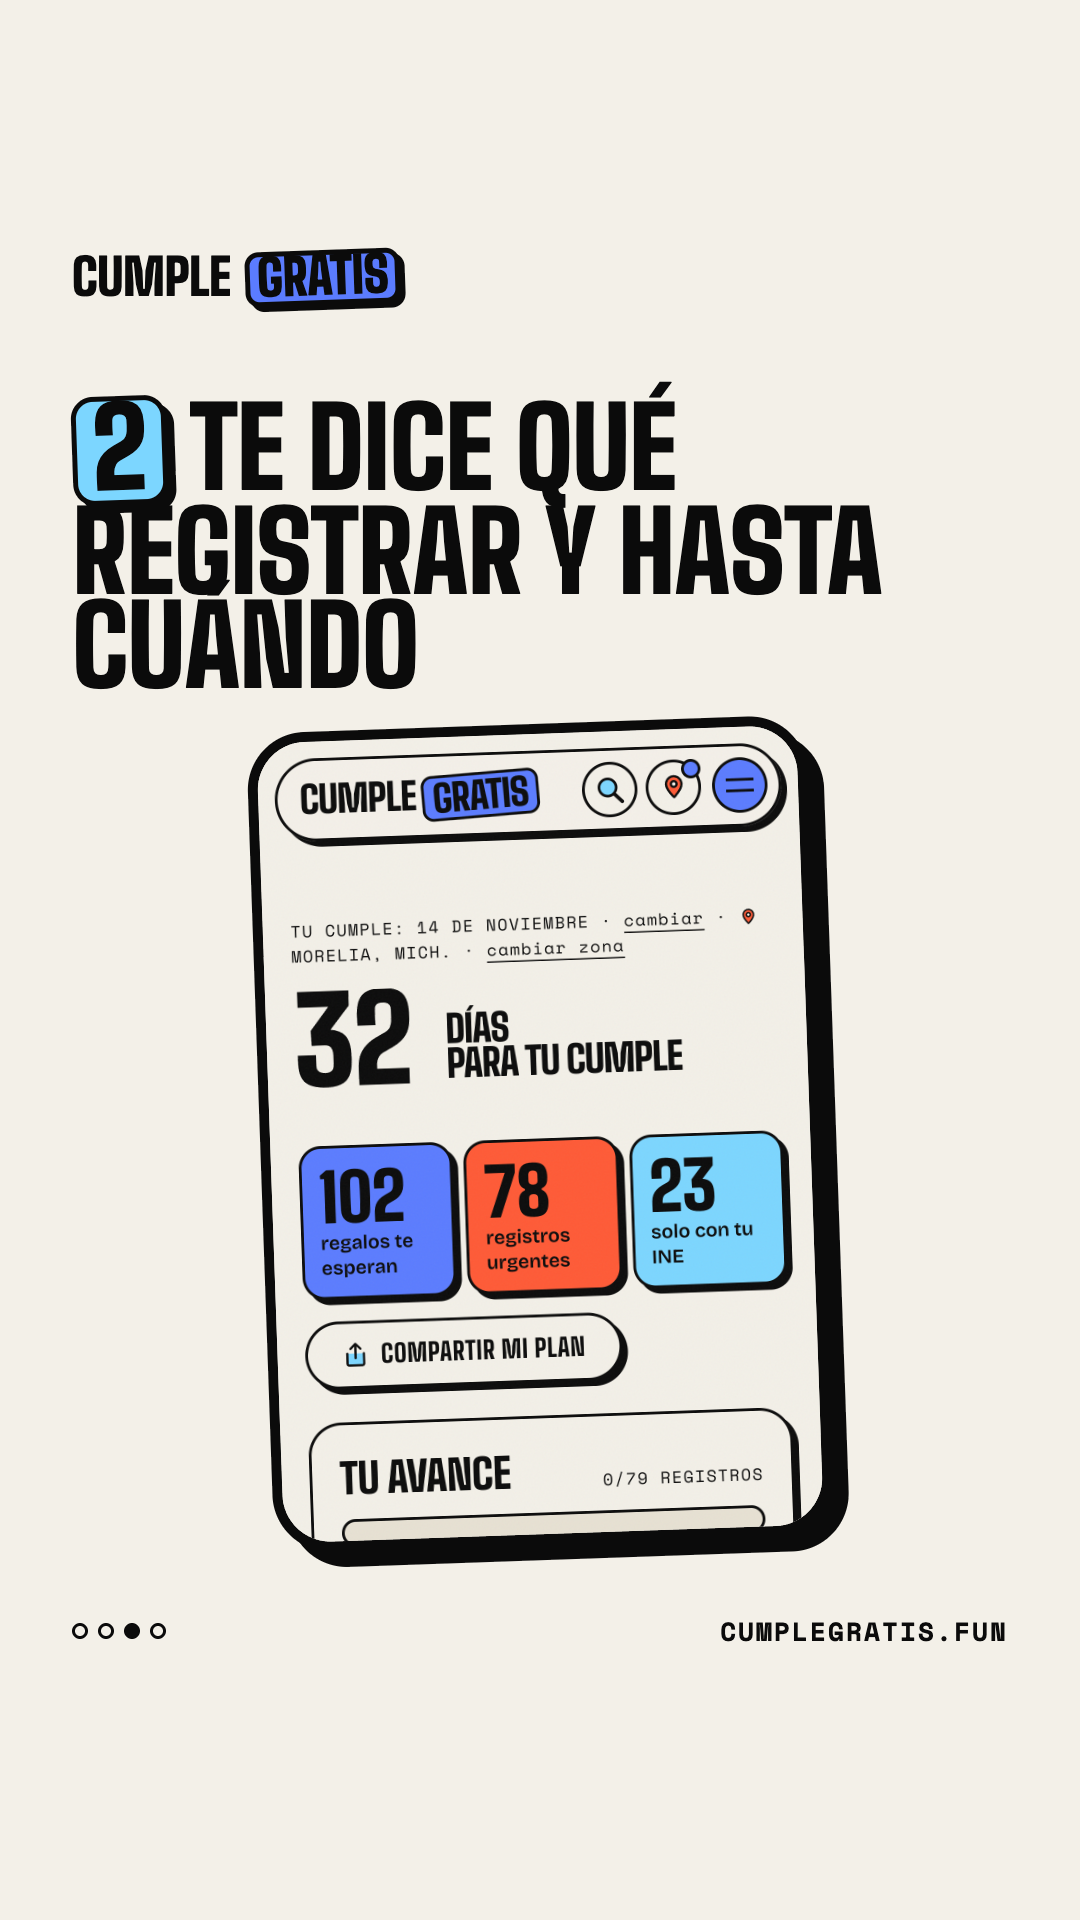
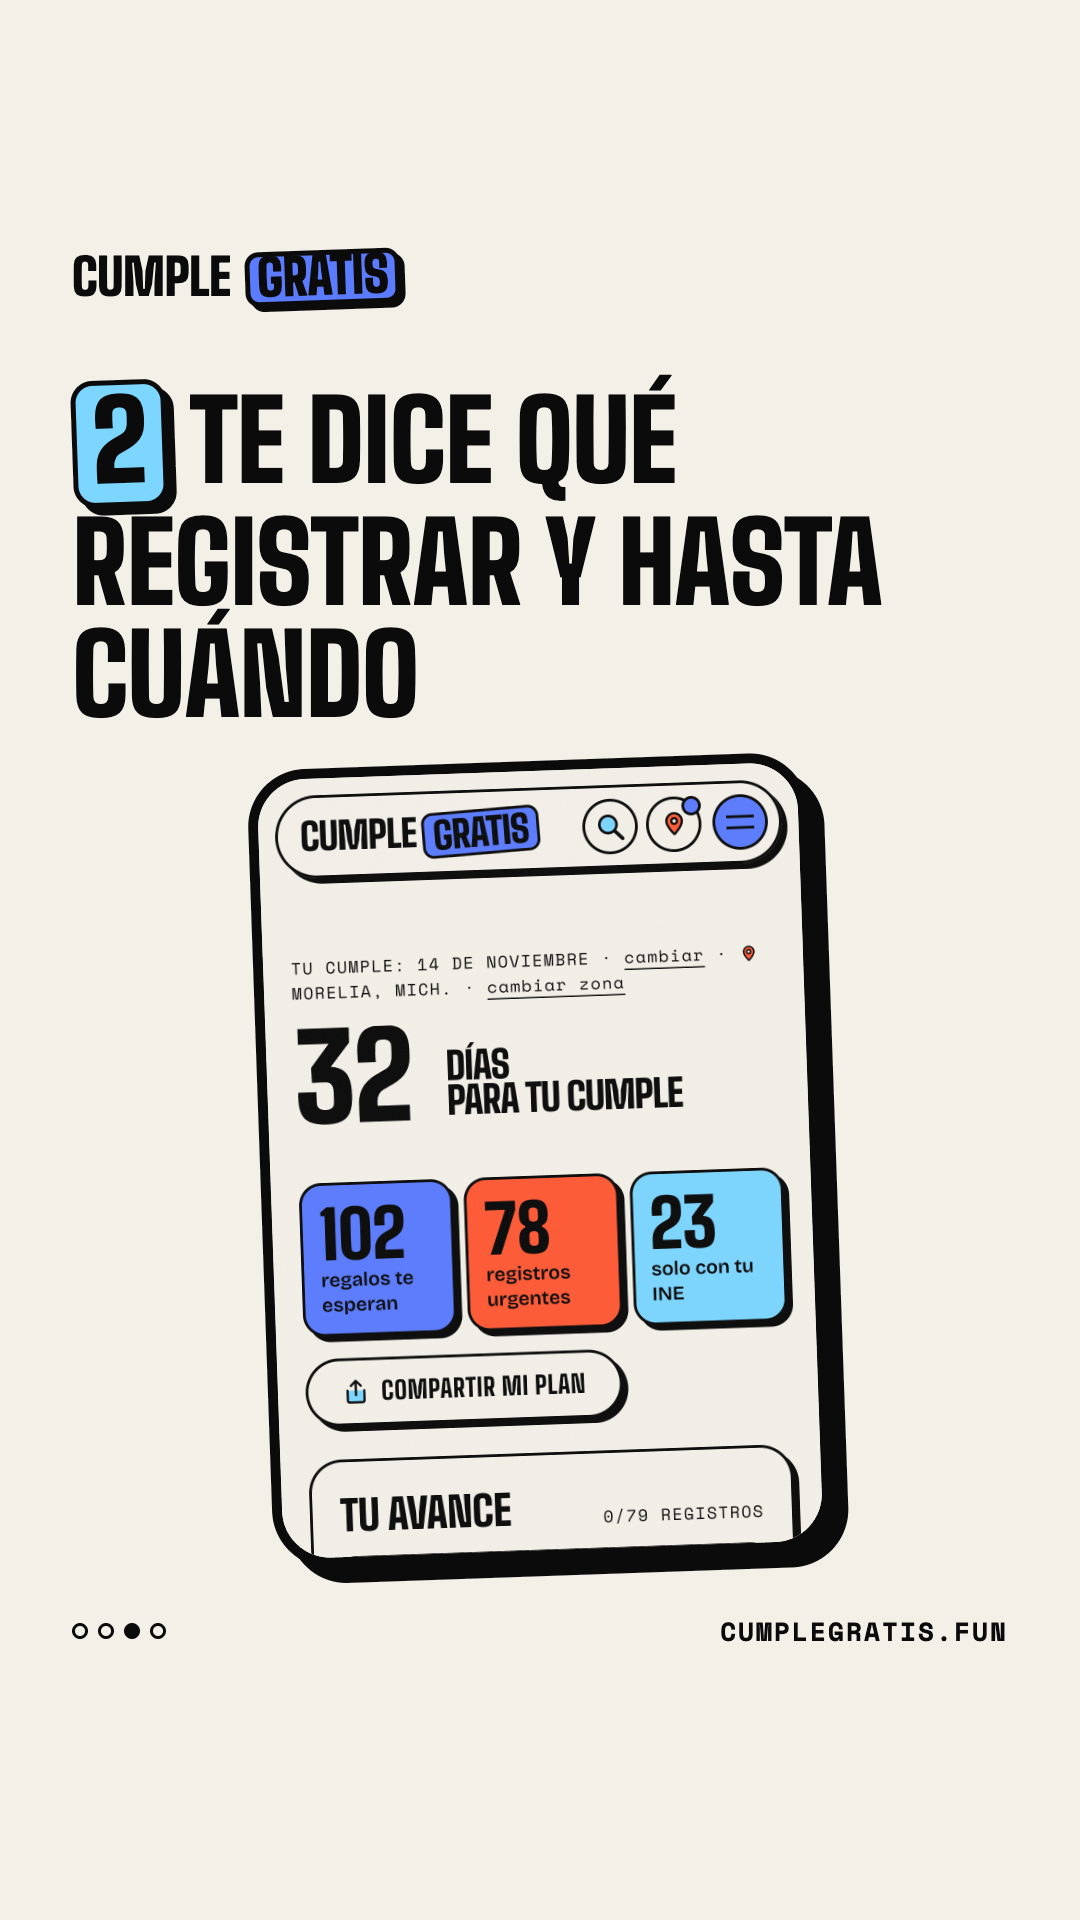
Cumplegratis: acentos visibles en «Cómo funciona»

Changed region(s): [[0.0611, 0.1875, 0.825, 0.8438], [0.4889, 0.1875, 0.55, 0.2188], [0.3056, 0.1875, 0.3361, 0.2188]]

diff --git a/index.html b/index.html
@@ -933,7 +933,7 @@ render();
 </section>
 
 <script>
-const CG = {"items": [{"id": "p01", "type": "post", "date": "2026-10-14", "title": "Tu cumple sale gratis (presentación)", "when": "", "note": "Día de apertura: primero foto de perfil y bio (Perfil, abajo). Luego este carrusel y fíjalo arriba del perfil.", "ig_text": "Tu cumple sale gratis.\n\nJuntamos todas las promos de cumpleaños de México: café, postre, comida, cine y regalos. Pones tu fecha y tu ciudad y te decimos qué registrar y hasta cuándo.\n\nGratis y sin cuenta: link en la bio.\n\n#cumpleaños #promociones #mexico #gratis #cumplegratis", "tt_text": "Todas las promos de cumpleaños de México en un solo lugar. Link en mi perfil #cumpleaños #promociones #mexico #gratis", "ig": [{"full": "cumplegratis/img/p01/ig/1.jpg?v=297d1154", "thumb": "cumplegratis/img/p01/ig/t1.jpg?v=d7e737ea"}, {"full": "cumplegratis/img/p01/ig/2.jpg?v=20e0c9f6", "thumb": "cumplegratis/img/p01/ig/t2.jpg?v=f92fd894"}, {"full": "cumplegratis/img/p01/ig/3.jpg?v=8c886379", "thumb": "cumplegratis/img/p01/ig/t3.jpg?v=6747280a"}, {"full": "cumplegratis/img/p01/ig/4.jpg?v=64f4d226", "thumb": "cumplegratis/img/p01/ig/t4.jpg?v=0f6d96af"}, {"full": "cumplegratis/img/p01/ig/5.jpg?v=eb682a5f", "thumb": "cumplegratis/img/p01/ig/t5.jpg?v=ff97c169"}], "tt": [{"full": "cumplegratis/img/p01/tt/1.jpg?v=297d1154", "thumb": "cumplegratis/img/p01/tt/t1.jpg?v=d7e737ea"}, {"full": "cumplegratis/img/p01/tt/2.jpg?v=20e0c9f6", "thumb": "cumplegratis/img/p01/tt/t2.jpg?v=f92fd894"}, {"full": "cumplegratis/img/p01/tt/3.jpg?v=8c886379", "thumb": "cumplegratis/img/p01/tt/t3.jpg?v=6747280a"}, {"full": "cumplegratis/img/p01/tt/4.jpg?v=64f4d226", "thumb": "cumplegratis/img/p01/tt/t4.jpg?v=0f6d96af"}, {"full": "cumplegratis/img/p01/tt/5.jpg?v=eb682a5f", "thumb": "cumplegratis/img/p01/tt/t5.jpg?v=ff97c169"}], "solo_ig": false}, {"id": "p02", "type": "post", "date": "2026-10-16", "title": "Regalos que puedes cobrar en tu cumpleaños", "when": "", "note": "", "ig_text": "Regalos que puedes cobrar en tu cumpleaños en cadenas de todo México. Cada una tiene sus requisitos: algunas piden app o registro antes, otras solo tu INE.\n\nTodas las condiciones y lo que aplica en tu ciudad: link en la bio.\n\n#cumpleaños #regalosdecumpleaños #promociones #mexico", "tt_text": "Regalos que puedes cobrar en tu cumple. Guárdalo #cumpleaños #promociones #mexico #gratis", "ig": [{"full": "cumplegratis/img/p02/ig/1.jpg?v=56a81232", "thumb": "cumplegratis/img/p02/ig/t1.jpg?v=b1052b84"}, {"full": "cumplegratis/img/p02/ig/2.jpg?v=8419044f", "thumb": "cumplegratis/img/p02/ig/t2.jpg?v=dd36af64"}, {"full": "cumplegratis/img/p02/ig/3.jpg?v=87d4e8fd", "thumb": "cumplegratis/img/p02/ig/t3.jpg?v=4f14f570"}, {"full": "cumplegratis/img/p02/ig/4.jpg?v=8b3bced3", "thumb": "cumplegratis/img/p02/ig/t4.jpg?v=307720d6"}, {"full": "cumplegratis/img/p02/ig/5.jpg?v=216b62d3", "thumb": "cumplegratis/img/p02/ig/t5.jpg?v=b2c5c739"}, {"full": "cumplegratis/img/p02/ig/6.jpg?v=56a5f168", "thumb": "cumplegratis/img/p02/ig/t6.jpg?v=eb18cb86"}], "tt": [{"full": "cumplegratis/img/p02/tt/1.jpg?v=56a81232", "thumb": "cumplegratis/img/p02/tt/t1.jpg?v=b1052b84"}, {"full": "cumplegratis/img/p02/tt/2.jpg?v=8419044f", "thumb": "cumplegratis/img/p02/tt/t2.jpg?v=dd36af64"}, {"full": "cumplegratis/img/p02/tt/3.jpg?v=87d4e8fd", "thumb": "cumplegratis/img/p02/tt/t3.jpg?v=4f14f570"}, {"full": "cumplegratis/img/p02/tt/4.jpg?v=8b3bced3", "thumb": "cumplegratis/img/p02/tt/t4.jpg?v=307720d6"}, {"full": "cumplegratis/img/p02/tt/5.jpg?v=216b62d3", "thumb": "cumplegratis/img/p02/tt/t5.jpg?v=b2c5c739"}, {"full": "cumplegratis/img/p02/tt/6.jpg?v=56a5f168", "thumb": "cumplegratis/img/p02/tt/t6.jpg?v=eb18cb86"}], "solo_ig": false}, {"id": "p03", "type": "post", "date": "2026-10-19", "title": "Cumples en noviembre: regístrate ya", "when": "", "note": "Va antes de que empiece noviembre para que alcancen a registrarse.", "ig_text": "¿Cumples en noviembre? Muchos regalos de cumpleaños solo llegan si ya estabas registrado en el programa de la marca.\n\nEn cumplegratis.fun pones tu fecha y te sale hasta qué día registrarte en cada uno. Link en la bio.\n\n#cumpleaños #noviembre #promociones #mexico", "tt_text": "Si cumples en noviembre, regístrate YA #cumpleaños #noviembre #promociones #mexico", "ig": [{"full": "cumplegratis/img/p03/ig/1.jpg?v=bb37e3fe", "thumb": "cumplegratis/img/p03/ig/t1.jpg?v=354d176e"}, {"full": "cumplegratis/img/p03/ig/2.jpg?v=865d282a", "thumb": "cumplegratis/img/p03/ig/t2.jpg?v=b7b1b67d"}, {"full": "cumplegratis/img/p03/ig/3.jpg?v=11c02ddb", "thumb": "cumplegratis/img/p03/ig/t3.jpg?v=c4e4cd49"}], "tt": [{"full": "cumplegratis/img/p03/tt/1.jpg?v=bb37e3fe", "thumb": "cumplegratis/img/p03/tt/t1.jpg?v=354d176e"}, {"full": "cumplegratis/img/p03/tt/2.jpg?v=865d282a", "thumb": "cumplegratis/img/p03/tt/t2.jpg?v=b7b1b67d"}, {"full": "cumplegratis/img/p03/tt/3.jpg?v=11c02ddb", "thumb": "cumplegratis/img/p03/tt/t3.jpg?v=c4e4cd49"}], "solo_ig": false}], "perfil": {"foto": {"file": "cumplegratis/img/perfil/perfil.png?v=eec987cf", "thumb": "cumplegratis/img/perfil/t-perfil.jpg?v=a9a232ec", "name": "cumplegratis-perfil.png", "label": ""}, "destacadas": [{"file": "cumplegratis/img/dest/1.png?v=d3cf2a99", "thumb": "cumplegratis/img/dest/t1.jpg?v=86b2a82c", "name": "cumplegratis-destacada-1.png", "label": "Cómo funciona"}, {"file": "cumplegratis/img/dest/2.png?v=3b9a06f3", "thumb": "cumplegratis/img/dest/t2.jpg?v=c7b04832", "name": "cumplegratis-destacada-2.png", "label": "Regístrate antes"}, {"file": "cumplegratis/img/dest/3.png?v=fd99a87c", "thumb": "cumplegratis/img/dest/t3.jpg?v=8c8e868b", "name": "cumplegratis-destacada-3.png", "label": "Solo con tu INE"}, {"file": "cumplegratis/img/dest/4.png?v=331a9e3c", "thumb": "cumplegratis/img/dest/t4.jpg?v=977c184a", "name": "cumplegratis-destacada-4.png", "label": "Por ciudad"}], "historias": [{"title": "Cómo funciona", "items": [{"file": "cumplegratis/img/dest/1-1.png?v=62d78f5f", "thumb": "cumplegratis/img/dest/t1-1.jpg?v=0bc079e3", "name": "cumplegratis-1-1.png"}, {"file": "cumplegratis/img/dest/1-2.png?v=86ded7ed", "thumb": "cumplegratis/img/dest/t1-2.jpg?v=a1f8ae97", "name": "cumplegratis-1-2.png"}, {"file": "cumplegratis/img/dest/1-3.png?v=bf7d8b1e", "thumb": "cumplegratis/img/dest/t1-3.jpg?v=81f38a60", "name": "cumplegratis-1-3.png"}, {"file": "cumplegratis/img/dest/1-4.png?v=dfbd069a", "thumb": "cumplegratis/img/dest/t1-4.jpg?v=cef5c3f9", "name": "cumplegratis-1-4.png"}]}, {"title": "Regístrate antes", "items": [{"file": "cumplegratis/img/dest/2-1.png?v=50be9462", "thumb": "cumplegratis/img/dest/t2-1.jpg?v=537e8800", "name": "cumplegratis-2-1.png"}, {"file": "cumplegratis/img/dest/2-2.png?v=396bf079", "thumb": "cumplegratis/img/dest/t2-2.jpg?v=c2b0bd7d", "name": "cumplegratis-2-2.png"}, {"file": "cumplegratis/img/dest/2-3.png?v=fb1784a8", "thumb": "cumplegratis/img/dest/t2-3.jpg?v=46d71647", "name": "cumplegratis-2-3.png"}]}, {"title": "Solo con tu INE", "items": [{"file": "cumplegratis/img/dest/3-1.png?v=cc3ac964", "thumb": "cumplegratis/img/dest/t3-1.jpg?v=0de74dc5", "name": "cumplegratis-3-1.png"}, {"file": "cumplegratis/img/dest/3-2.png?v=83a0ce9b", "thumb": "cumplegratis/img/dest/t3-2.jpg?v=cb09d5d9", "name": "cumplegratis-3-2.png"}, {"file": "cumplegratis/img/dest/3-3.png?v=8223ae98", "thumb": "cumplegratis/img/dest/t3-3.jpg?v=cb1abc39", "name": "cumplegratis-3-3.png"}]}, {"title": "Por ciudad", "items": [{"file": "cumplegratis/img/dest/4-1.png?v=b1453a2d", "thumb": "cumplegratis/img/dest/t4-1.jpg?v=81cbcfad", "name": "cumplegratis-4-1.png"}, {"file": "cumplegratis/img/dest/4-2.png?v=ec373e08", "thumb": "cumplegratis/img/dest/t4-2.jpg?v=b3cdf6c8", "name": "cumplegratis-4-2.png"}]}], "bio": [{"title": "Usuario (las dos redes)", "text": "cumplegratis.fun"}, {"title": "Nombre (las dos redes)", "text": "Cumplegratis · Promos de cumpleaños"}, {"title": "Bio de Instagram", "text": "Todas las promos de cumpleaños de México en un solo lugar.\nCafé, postre, cine y regalos: qué te dan y cómo cobrarlo.\nDe Dusa Solutions"}, {"title": "Bio de TikTok", "text": "Las promos de cumpleaños de México. Qué te regalan y cómo cobrarlo."}, {"title": "Enlace de Instagram", "text": "https://cumplegratis.fun/ig"}, {"title": "Enlace de TikTok", "text": "https://cumplegratis.fun/tt"}]}, "calStart": "2026-10-12", "apertura": "2026-10-14", "pendientes": [{"id": "perfil", "cuando": "Antes del mié 14", "texto": "Sube la foto de perfil y pega nombre, bio y enlace de cada red (Perfil, abajo). Los enlaces son cumplegratis.fun/ig y cumplegratis.fun/tt."}, {"id": "seguridad", "cuando": "Antes del mié 14", "texto": "Activa verificación en dos pasos en las dos cuentas."}, {"id": "fijar", "cuando": "Mié 14", "texto": "Fija el carrusel de presentación arriba del perfil en Instagram y TikTok."}], "ideas": [], "consejos": ["Cuando cobres una promo real (tu café, tu postre), graba 5–10 s en vertical: el producto y el ticket o la app. Suéltalo en 3-CRUDO.", "Graba sin hablar si no quieres salir: yo le pongo texto y música.", "No grabes caras de empleados ni de otros clientes sin permiso."], "h1": "Cumplegratis <span>oct</span> – <em>nov</em>", "sub": "Posts lun · mié · vie  ·  7–9 pm  ·  actualizado el 13/10/2026"};
+const CG = {"items": [{"id": "p01", "type": "post", "date": "2026-10-14", "title": "Tu cumple sale gratis (presentación)", "when": "", "note": "Día de apertura: primero foto de perfil y bio (Perfil, abajo). Luego este carrusel y fíjalo arriba del perfil.", "ig_text": "Tu cumple sale gratis.\n\nJuntamos todas las promos de cumpleaños de México: café, postre, comida, cine y regalos. Pones tu fecha y tu ciudad y te decimos qué registrar y hasta cuándo.\n\nGratis y sin cuenta: link en la bio.\n\n#cumpleaños #promociones #mexico #gratis #cumplegratis", "tt_text": "Todas las promos de cumpleaños de México en un solo lugar. Link en mi perfil #cumpleaños #promociones #mexico #gratis", "ig": [{"full": "cumplegratis/img/p01/ig/1.jpg?v=297d1154", "thumb": "cumplegratis/img/p01/ig/t1.jpg?v=d7e737ea"}, {"full": "cumplegratis/img/p01/ig/2.jpg?v=20e0c9f6", "thumb": "cumplegratis/img/p01/ig/t2.jpg?v=f92fd894"}, {"full": "cumplegratis/img/p01/ig/3.jpg?v=8c886379", "thumb": "cumplegratis/img/p01/ig/t3.jpg?v=6747280a"}, {"full": "cumplegratis/img/p01/ig/4.jpg?v=64f4d226", "thumb": "cumplegratis/img/p01/ig/t4.jpg?v=0f6d96af"}, {"full": "cumplegratis/img/p01/ig/5.jpg?v=eb682a5f", "thumb": "cumplegratis/img/p01/ig/t5.jpg?v=ff97c169"}], "tt": [{"full": "cumplegratis/img/p01/tt/1.jpg?v=297d1154", "thumb": "cumplegratis/img/p01/tt/t1.jpg?v=d7e737ea"}, {"full": "cumplegratis/img/p01/tt/2.jpg?v=20e0c9f6", "thumb": "cumplegratis/img/p01/tt/t2.jpg?v=f92fd894"}, {"full": "cumplegratis/img/p01/tt/3.jpg?v=8c886379", "thumb": "cumplegratis/img/p01/tt/t3.jpg?v=6747280a"}, {"full": "cumplegratis/img/p01/tt/4.jpg?v=64f4d226", "thumb": "cumplegratis/img/p01/tt/t4.jpg?v=0f6d96af"}, {"full": "cumplegratis/img/p01/tt/5.jpg?v=eb682a5f", "thumb": "cumplegratis/img/p01/tt/t5.jpg?v=ff97c169"}], "solo_ig": false}, {"id": "p02", "type": "post", "date": "2026-10-16", "title": "Regalos que puedes cobrar en tu cumpleaños", "when": "", "note": "", "ig_text": "Regalos que puedes cobrar en tu cumpleaños en cadenas de todo México. Cada una tiene sus requisitos: algunas piden app o registro antes, otras solo tu INE.\n\nTodas las condiciones y lo que aplica en tu ciudad: link en la bio.\n\n#cumpleaños #regalosdecumpleaños #promociones #mexico", "tt_text": "Regalos que puedes cobrar en tu cumple. Guárdalo #cumpleaños #promociones #mexico #gratis", "ig": [{"full": "cumplegratis/img/p02/ig/1.jpg?v=56a81232", "thumb": "cumplegratis/img/p02/ig/t1.jpg?v=b1052b84"}, {"full": "cumplegratis/img/p02/ig/2.jpg?v=8419044f", "thumb": "cumplegratis/img/p02/ig/t2.jpg?v=dd36af64"}, {"full": "cumplegratis/img/p02/ig/3.jpg?v=87d4e8fd", "thumb": "cumplegratis/img/p02/ig/t3.jpg?v=4f14f570"}, {"full": "cumplegratis/img/p02/ig/4.jpg?v=8b3bced3", "thumb": "cumplegratis/img/p02/ig/t4.jpg?v=307720d6"}, {"full": "cumplegratis/img/p02/ig/5.jpg?v=216b62d3", "thumb": "cumplegratis/img/p02/ig/t5.jpg?v=b2c5c739"}, {"full": "cumplegratis/img/p02/ig/6.jpg?v=56a5f168", "thumb": "cumplegratis/img/p02/ig/t6.jpg?v=eb18cb86"}], "tt": [{"full": "cumplegratis/img/p02/tt/1.jpg?v=56a81232", "thumb": "cumplegratis/img/p02/tt/t1.jpg?v=b1052b84"}, {"full": "cumplegratis/img/p02/tt/2.jpg?v=8419044f", "thumb": "cumplegratis/img/p02/tt/t2.jpg?v=dd36af64"}, {"full": "cumplegratis/img/p02/tt/3.jpg?v=87d4e8fd", "thumb": "cumplegratis/img/p02/tt/t3.jpg?v=4f14f570"}, {"full": "cumplegratis/img/p02/tt/4.jpg?v=8b3bced3", "thumb": "cumplegratis/img/p02/tt/t4.jpg?v=307720d6"}, {"full": "cumplegratis/img/p02/tt/5.jpg?v=216b62d3", "thumb": "cumplegratis/img/p02/tt/t5.jpg?v=b2c5c739"}, {"full": "cumplegratis/img/p02/tt/6.jpg?v=56a5f168", "thumb": "cumplegratis/img/p02/tt/t6.jpg?v=eb18cb86"}], "solo_ig": false}, {"id": "p03", "type": "post", "date": "2026-10-19", "title": "Cumples en noviembre: regístrate ya", "when": "", "note": "Va antes de que empiece noviembre para que alcancen a registrarse.", "ig_text": "¿Cumples en noviembre? Muchos regalos de cumpleaños solo llegan si ya estabas registrado en el programa de la marca.\n\nEn cumplegratis.fun pones tu fecha y te sale hasta qué día registrarte en cada uno. Link en la bio.\n\n#cumpleaños #noviembre #promociones #mexico", "tt_text": "Si cumples en noviembre, regístrate YA #cumpleaños #noviembre #promociones #mexico", "ig": [{"full": "cumplegratis/img/p03/ig/1.jpg?v=bb37e3fe", "thumb": "cumplegratis/img/p03/ig/t1.jpg?v=354d176e"}, {"full": "cumplegratis/img/p03/ig/2.jpg?v=865d282a", "thumb": "cumplegratis/img/p03/ig/t2.jpg?v=b7b1b67d"}, {"full": "cumplegratis/img/p03/ig/3.jpg?v=11c02ddb", "thumb": "cumplegratis/img/p03/ig/t3.jpg?v=c4e4cd49"}], "tt": [{"full": "cumplegratis/img/p03/tt/1.jpg?v=bb37e3fe", "thumb": "cumplegratis/img/p03/tt/t1.jpg?v=354d176e"}, {"full": "cumplegratis/img/p03/tt/2.jpg?v=865d282a", "thumb": "cumplegratis/img/p03/tt/t2.jpg?v=b7b1b67d"}, {"full": "cumplegratis/img/p03/tt/3.jpg?v=11c02ddb", "thumb": "cumplegratis/img/p03/tt/t3.jpg?v=c4e4cd49"}], "solo_ig": false}], "perfil": {"foto": {"file": "cumplegratis/img/perfil/perfil.png?v=eec987cf", "thumb": "cumplegratis/img/perfil/t-perfil.jpg?v=a9a232ec", "name": "cumplegratis-perfil.png", "label": ""}, "destacadas": [{"file": "cumplegratis/img/dest/1.png?v=d3cf2a99", "thumb": "cumplegratis/img/dest/t1.jpg?v=86b2a82c", "name": "cumplegratis-destacada-1.png", "label": "Cómo funciona"}, {"file": "cumplegratis/img/dest/2.png?v=3b9a06f3", "thumb": "cumplegratis/img/dest/t2.jpg?v=c7b04832", "name": "cumplegratis-destacada-2.png", "label": "Regístrate antes"}, {"file": "cumplegratis/img/dest/3.png?v=fd99a87c", "thumb": "cumplegratis/img/dest/t3.jpg?v=8c8e868b", "name": "cumplegratis-destacada-3.png", "label": "Solo con tu INE"}, {"file": "cumplegratis/img/dest/4.png?v=331a9e3c", "thumb": "cumplegratis/img/dest/t4.jpg?v=977c184a", "name": "cumplegratis-destacada-4.png", "label": "Por ciudad"}], "historias": [{"title": "Cómo funciona", "items": [{"file": "cumplegratis/img/dest/1-1.png?v=62d78f5f", "thumb": "cumplegratis/img/dest/t1-1.jpg?v=0bc079e3", "name": "cumplegratis-1-1.png"}, {"file": "cumplegratis/img/dest/1-2.png?v=144ecca0", "thumb": "cumplegratis/img/dest/t1-2.jpg?v=89c107b9", "name": "cumplegratis-1-2.png"}, {"file": "cumplegratis/img/dest/1-3.png?v=f306e151", "thumb": "cumplegratis/img/dest/t1-3.jpg?v=9f674e24", "name": "cumplegratis-1-3.png"}, {"file": "cumplegratis/img/dest/1-4.png?v=0ca03f1d", "thumb": "cumplegratis/img/dest/t1-4.jpg?v=3945c721", "name": "cumplegratis-1-4.png"}]}, {"title": "Regístrate antes", "items": [{"file": "cumplegratis/img/dest/2-1.png?v=50be9462", "thumb": "cumplegratis/img/dest/t2-1.jpg?v=537e8800", "name": "cumplegratis-2-1.png"}, {"file": "cumplegratis/img/dest/2-2.png?v=396bf079", "thumb": "cumplegratis/img/dest/t2-2.jpg?v=c2b0bd7d", "name": "cumplegratis-2-2.png"}, {"file": "cumplegratis/img/dest/2-3.png?v=fb1784a8", "thumb": "cumplegratis/img/dest/t2-3.jpg?v=46d71647", "name": "cumplegratis-2-3.png"}]}, {"title": "Solo con tu INE", "items": [{"file": "cumplegratis/img/dest/3-1.png?v=cc3ac964", "thumb": "cumplegratis/img/dest/t3-1.jpg?v=0de74dc5", "name": "cumplegratis-3-1.png"}, {"file": "cumplegratis/img/dest/3-2.png?v=83a0ce9b", "thumb": "cumplegratis/img/dest/t3-2.jpg?v=cb09d5d9", "name": "cumplegratis-3-2.png"}, {"file": "cumplegratis/img/dest/3-3.png?v=8223ae98", "thumb": "cumplegratis/img/dest/t3-3.jpg?v=cb1abc39", "name": "cumplegratis-3-3.png"}]}, {"title": "Por ciudad", "items": [{"file": "cumplegratis/img/dest/4-1.png?v=b1453a2d", "thumb": "cumplegratis/img/dest/t4-1.jpg?v=81cbcfad", "name": "cumplegratis-4-1.png"}, {"file": "cumplegratis/img/dest/4-2.png?v=ec373e08", "thumb": "cumplegratis/img/dest/t4-2.jpg?v=b3cdf6c8", "name": "cumplegratis-4-2.png"}]}], "bio": [{"title": "Usuario (las dos redes)", "text": "cumplegratis.fun"}, {"title": "Nombre (las dos redes)", "text": "Cumplegratis · Promos de cumpleaños"}, {"title": "Bio de Instagram", "text": "Todas las promos de cumpleaños de México en un solo lugar.\nCafé, postre, cine y regalos: qué te dan y cómo cobrarlo.\nDe Dusa Solutions"}, {"title": "Bio de TikTok", "text": "Las promos de cumpleaños de México. Qué te regalan y cómo cobrarlo."}, {"title": "Enlace de Instagram", "text": "https://cumplegratis.fun/ig"}, {"title": "Enlace de TikTok", "text": "https://cumplegratis.fun/tt"}]}, "calStart": "2026-10-12", "apertura": "2026-10-14", "pendientes": [{"id": "perfil", "cuando": "Antes del mié 14", "texto": "Sube la foto de perfil y pega nombre, bio y enlace de cada red (Perfil, abajo). Los enlaces son cumplegratis.fun/ig y cumplegratis.fun/tt."}, {"id": "seguridad", "cuando": "Antes del mié 14", "texto": "Activa verificación en dos pasos en las dos cuentas."}, {"id": "fijar", "cuando": "Mié 14", "texto": "Fija el carrusel de presentación arriba del perfil en Instagram y TikTok."}], "ideas": [], "consejos": ["Cuando cobres una promo real (tu café, tu postre), graba 5–10 s en vertical: el producto y el ticket o la app. Suéltalo en 3-CRUDO.", "Graba sin hablar si no quieres salir: yo le pongo texto y música.", "No grabes caras de empleados ni de otros clientes sin permiso."], "h1": "Cumplegratis <span>oct</span> – <em>nov</em>", "sub": "Posts lun · mié · vie  ·  7–9 pm  ·  actualizado el 13/10/2026"};
 (() => {
 const R = document.getElementById('cg');
 const $ = (s) => R.querySelector(s);
